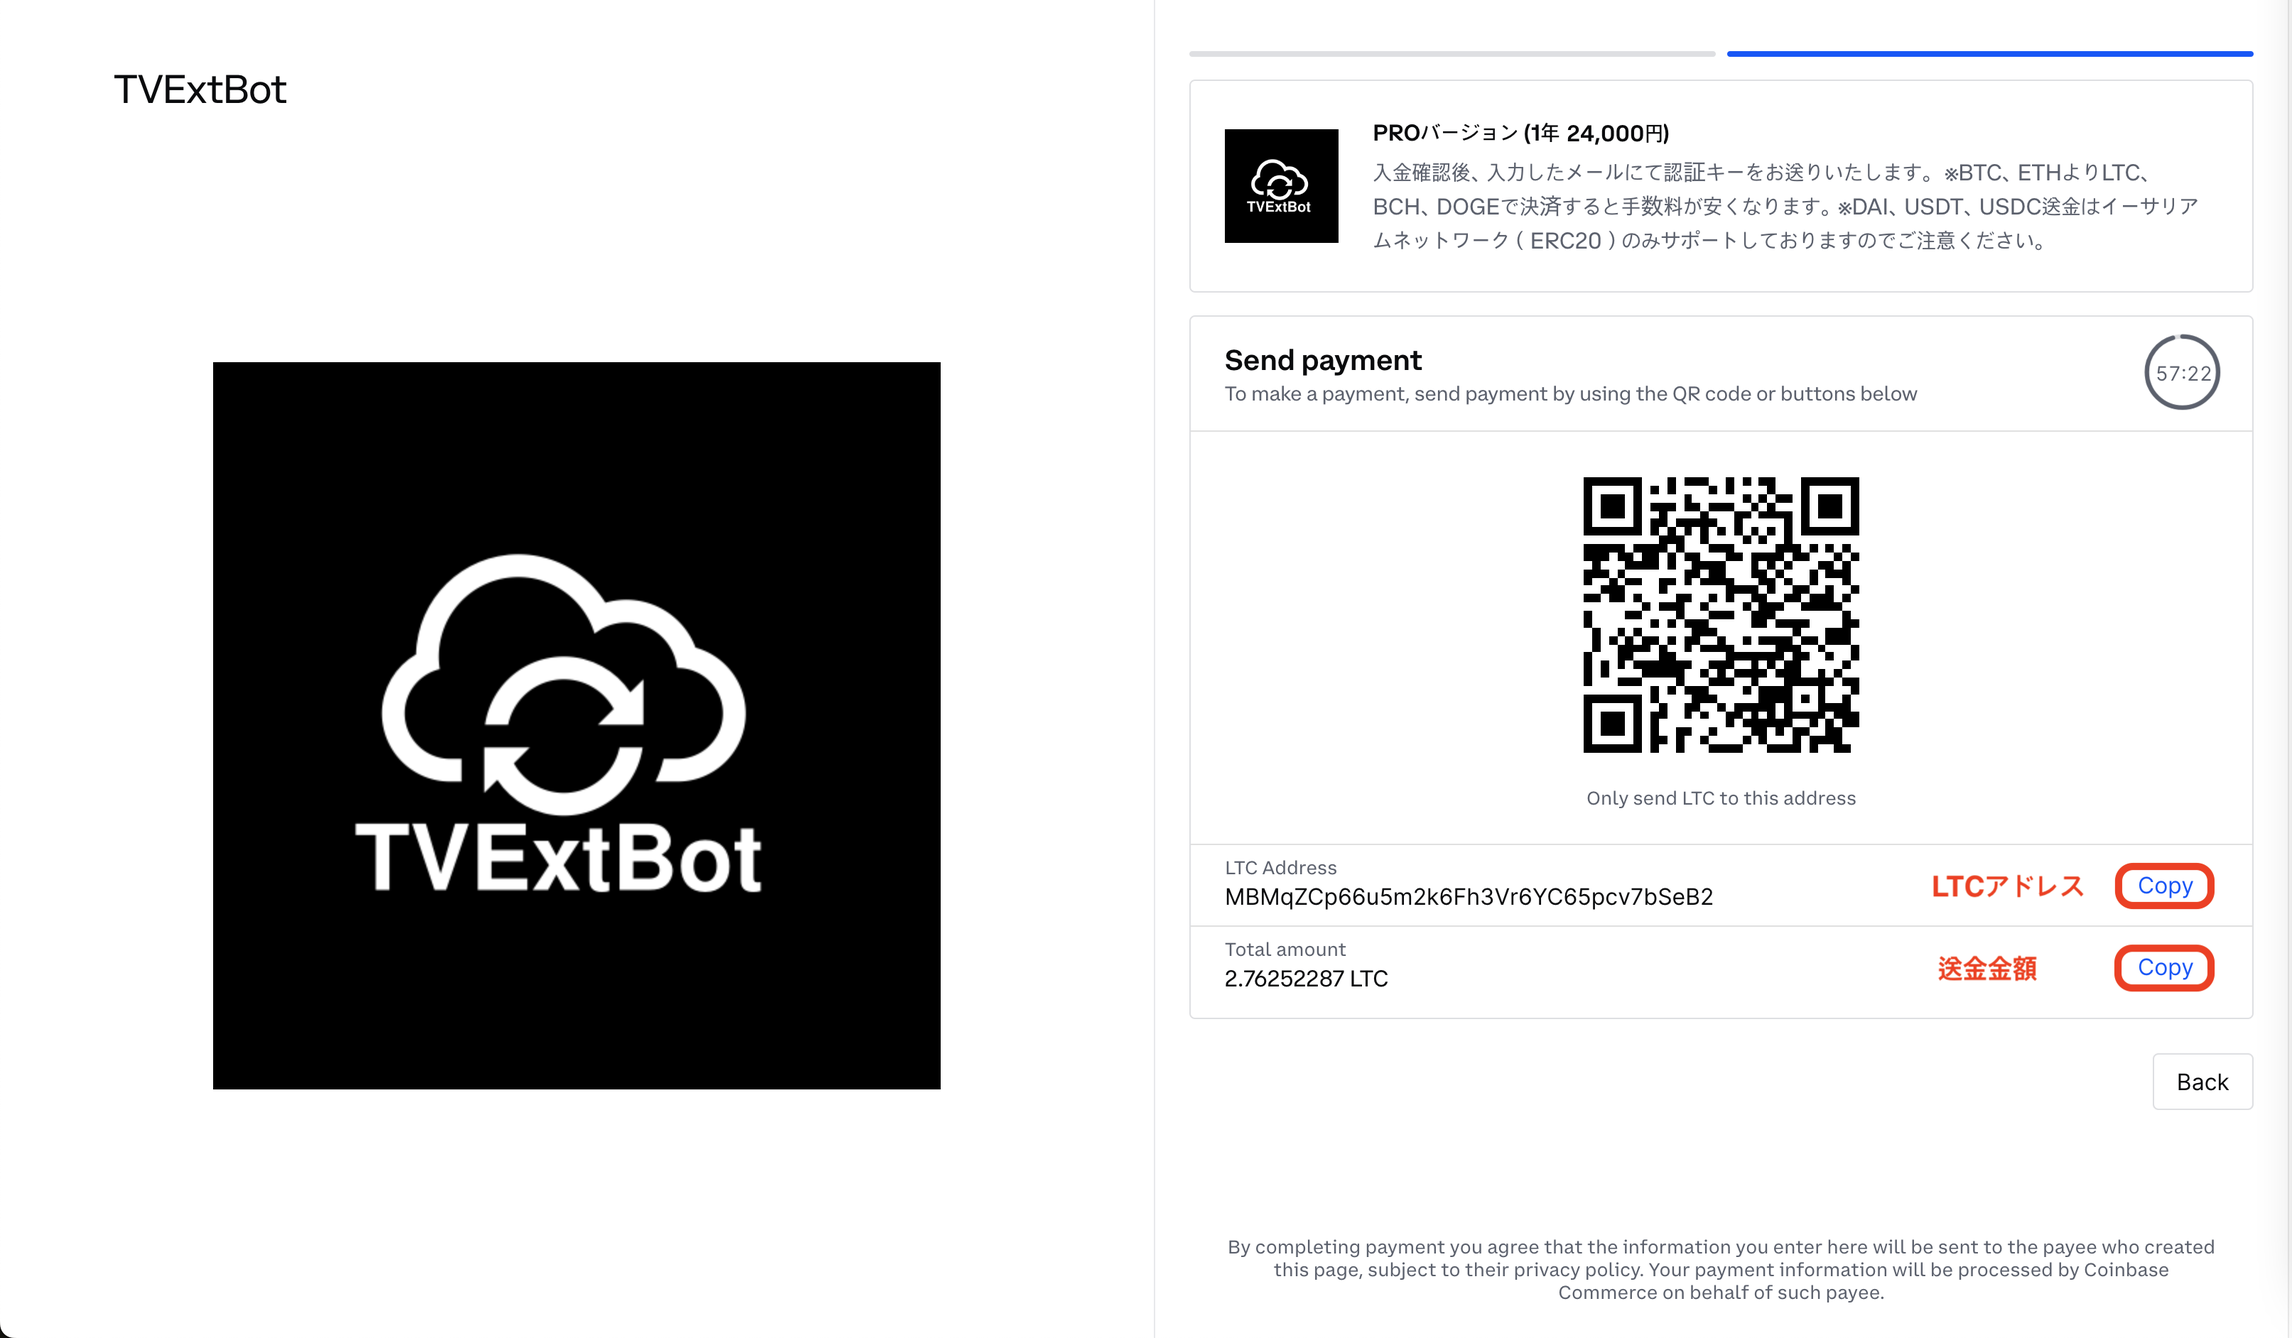
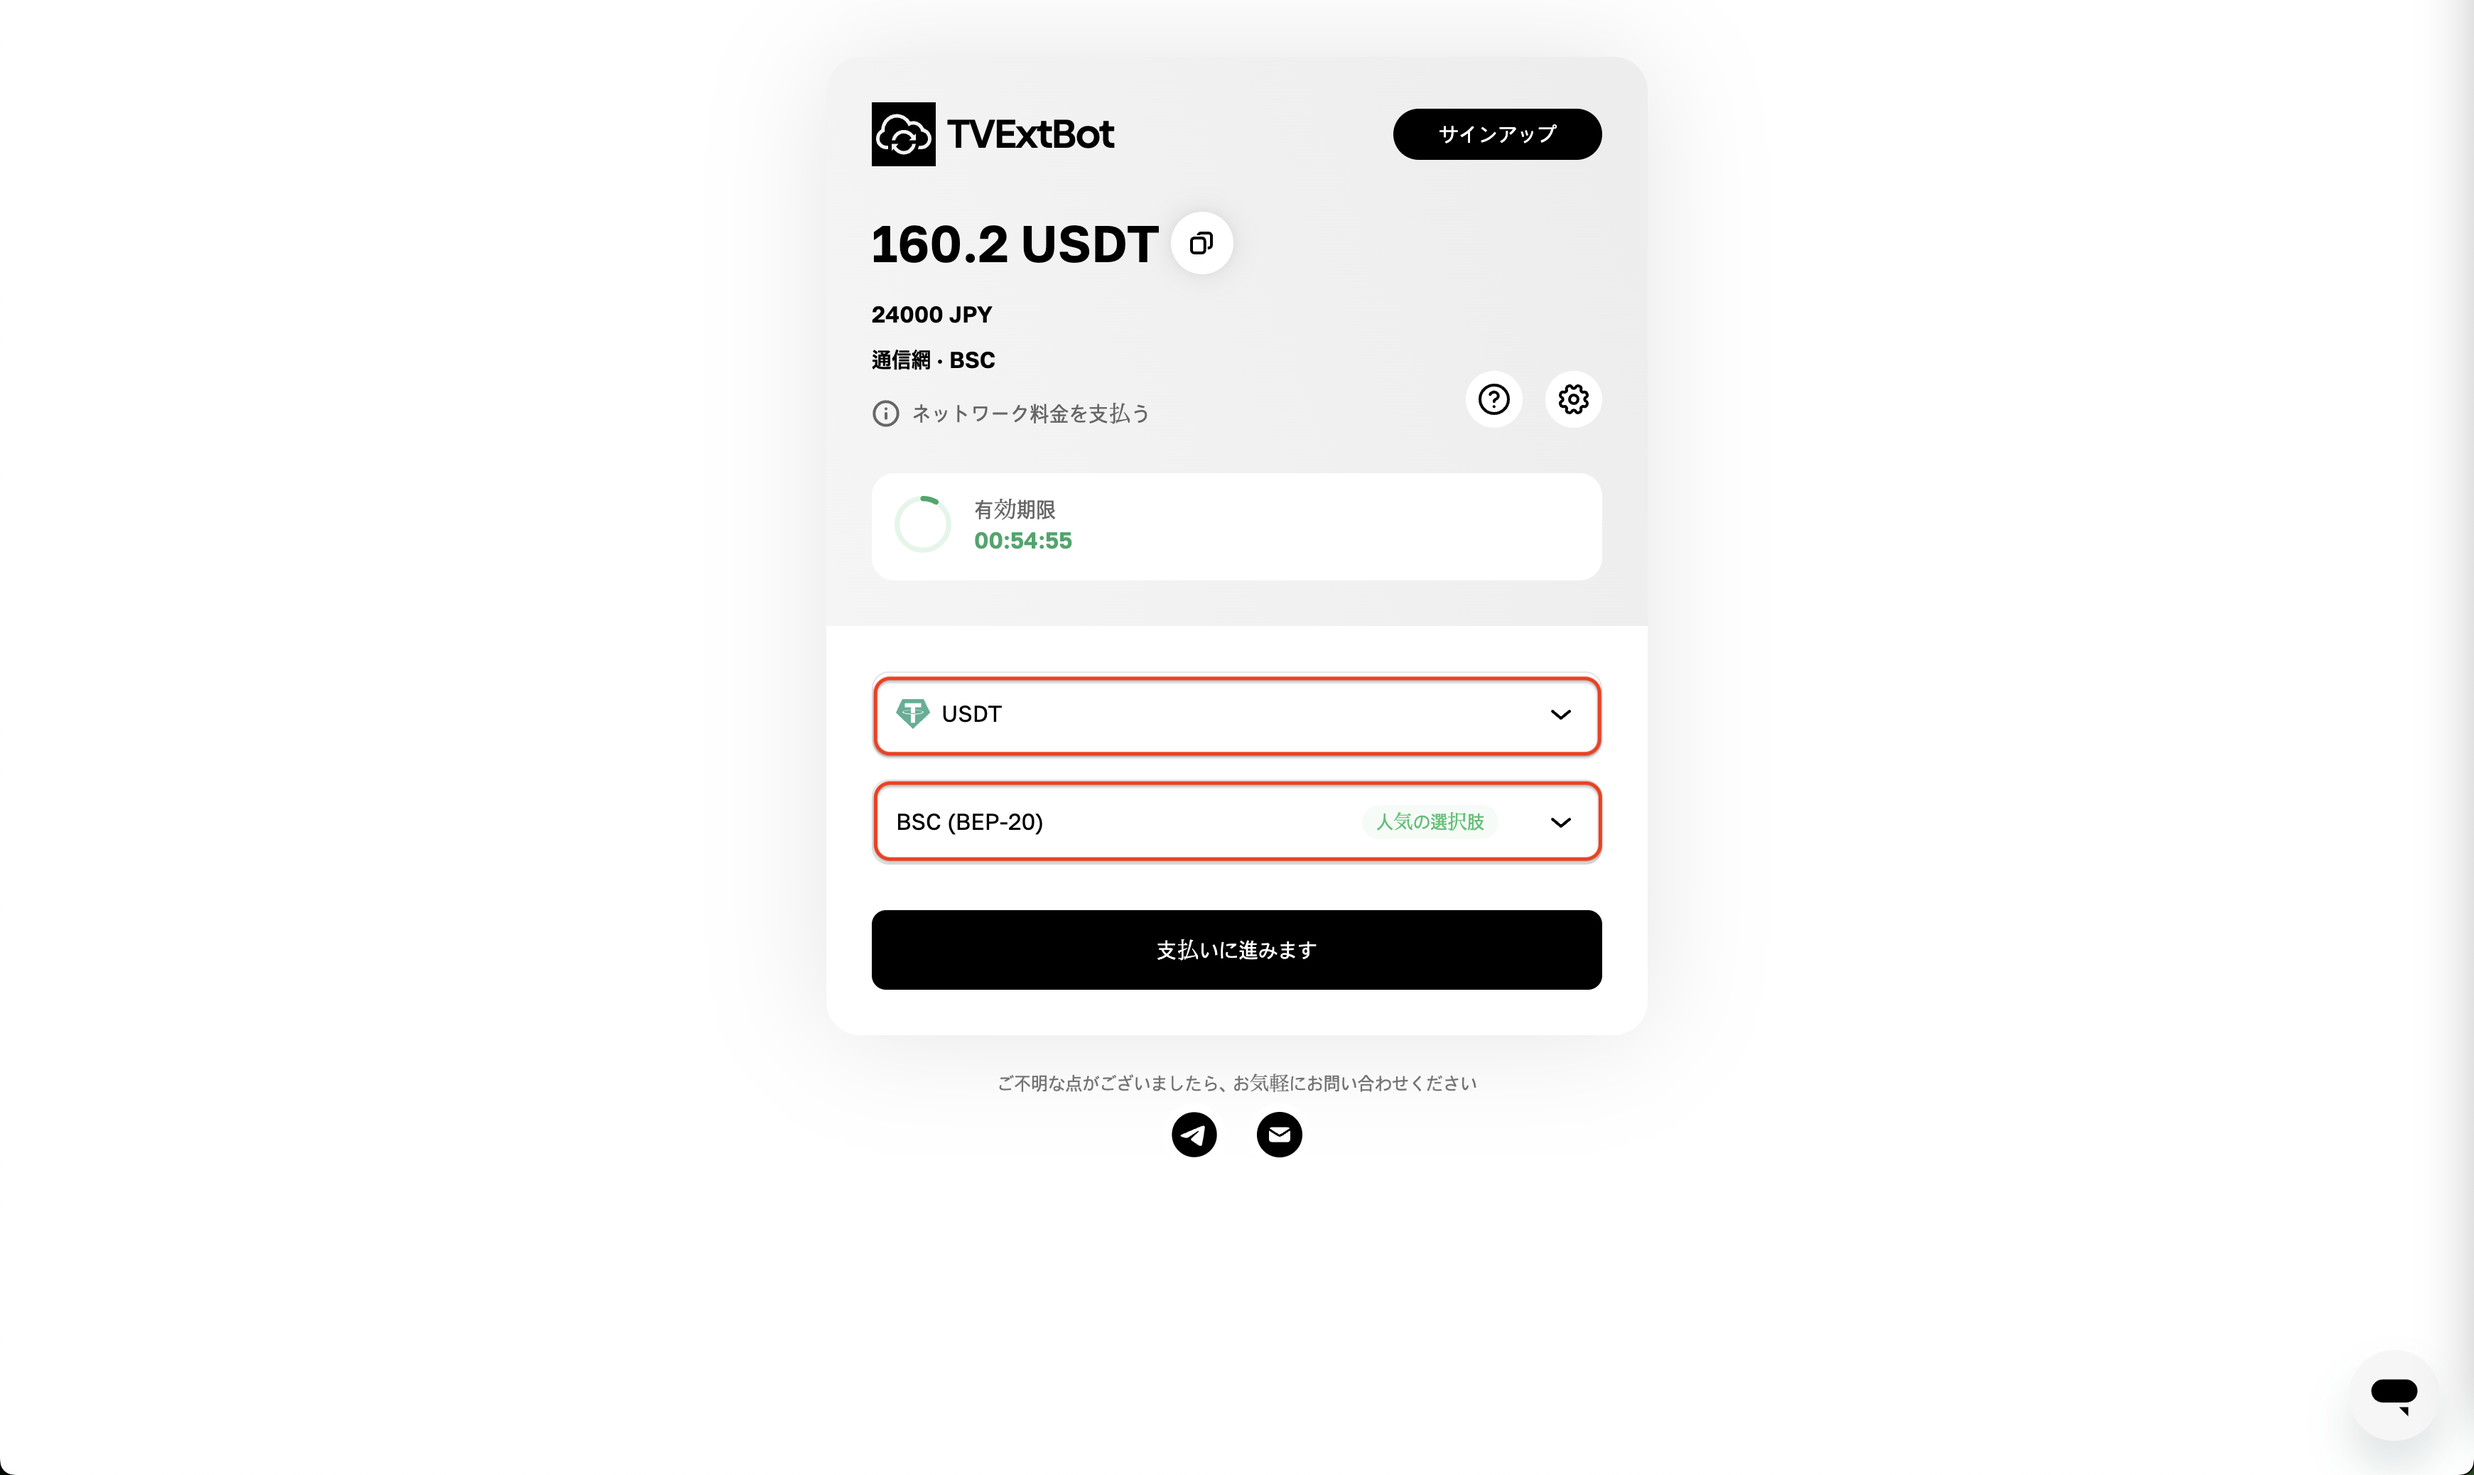
rebuilding site 2024년 4월  5일 금요일 13시 58분 50초 JST

diff --git a/posts/authguide/index.html b/posts/authguide/index.html
@@ -297,31 +297,38 @@ if (!doNotTrack) {
 </figure>
 
 <i class="fas fa-hand-point-right"></i> PROバージョンを使用するためには、[決済]ボタンをクリックして送金画面に移動してください。</p>
-<p>3.お支払い画面にメールを入力し、[Next]ボタンをクリックしてください。
+<p>3.決済ボタンをクリックして認証キーを送信するためのEメールを入力し、[支払いページに移動]ボタンをクリックします。
 <figure><img src="images/num3.png"/>
 </figure>
 
-<span class="text-danger">※ 入力したメールで認証キーをお送りしますので、正確にご記入ください。</span></p>
-<p>4.送金するコインの種類を選択します。
+<span class="text-danger">※ ご入力の際、メールで認証キーをお送りしますので、正確にご記入ください。</span></p>
+<p>4.決済ページの言語設定から日本語に変更を行います。
 <figure><img src="images/num4.png"/>
 </figure>
-
-<i class="fas fa-hand-point-right"></i> ここでライトコイン(Litecoin)を選択してみましょう。</p>
-<blockquote>
-<p><span class="text-danger">※ BTC、ETHよりLTC、BCH、DOGEで決済すると手数料が安くなります。</span>
-<span class="text-danger">※ DAI、USDT、USDC送金はイーサリアムネットワーク（ERC20）のみサポートしておりますのでご注意ください。</span></p>
-</blockquote>
-<p>5.ライトコインの送金金額と送金アドレスが表示されます。
+</p>
+<p>5.支払うコインとネットワークを選択して、次のページに進みます。
 <figure><img src="images/num5.png"/>
 </figure>
 
-<i class="fas fa-hand-point-right"></i> 送金金額と送金アドレスをコピーして出金する取引所またはウォレットに入力して出金を実行します。<br></p>
-<p>6.入金が確認されたら、3.で入力したメールで認証キーをお送りします。<br></p>
+<i class="fas fa-hand-point-right"></i> ここではUSDTを選択し、ネットワークは手数料の安いBSC（BEP-20）を選択します。</p>
+<blockquote>
+<p><span class="text-danger">※ 送金可能なコインは BTC, BCH, ETH, LTC, DOGE, BNB, MATIC, TRX, AVAX, SHIB, SOL, USDT, USDC です。</span></p>
+</blockquote>
+<p>6.入金する金額と受取人のウォレットアドレスが表示されます。
+<figure><img src="images/num6.png"/>
+</figure>
+
+<i class="fas fa-hand-point-right"></i>  入金金額と受取人のウォレットアドレスをコピーして出金する取引所またはウォレット（ウォレット）に入力して出金を実行します。<br></p>
+<blockquote>
+<p><span class="text-danger">※ 取引所出金手数料は別途本人が負担しなければならない点にご注意ください。</span><br>
+<span class="text-danger">※ 必ず有効期限内に取引所で出金を進めてください。</span></p>
+</blockquote>
+<p>7.入金が完了したら、3.で入力したメールで認証キーをお送りします。<br></p>
 <blockquote>
 <p><span class="text-danger">※ 認証キーは入金が完了すると自動発送されます。</span></p>
 </blockquote>
-<p>7.認証キーが到着したら、認証キー登録画面に移動し、電子メールと認証キーを入力して[認証]ボタンをクリックします。
-<figure><img src="images/num6.png"/>
+<p>8.認証キーが到着したら、認証キー登録画面に移動し、電子メールと認証キーを入力して[認証]ボタンをクリックします。
+<figure><img src="images/num7.png"/>
 </figure>
 
 <i class="fas fa-hand-point-right"></i> 認証が完了したら、APIキー登録画面のロックは全て解除されます。<br>
